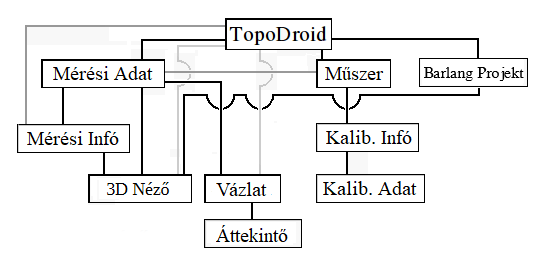
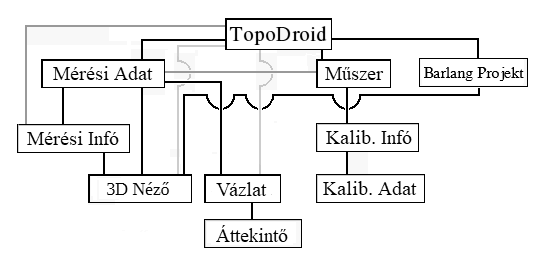
6 5 47

diff --git a/man/manual_hu.htm b/man/manual_hu.htm
@@ -1,6 +1,6 @@
 <html><body>
 <h3>Kiegészítés a magyar fordításhoz</h3>
-<!-- V20261027 6.5.44 -->
+<!-- V20261027 6.5.47 -->
 <i> holl.balazs.TopoDroid@gmail.com</i><br><p>
 
 Mottó:
@@ -23,7 +23,7 @@ A jelenlegi munkába a kezdésnél besegítettek: Markó Gábor; Vági Domonkos;
 Szakkifejezések fordítása - jelen esetben a barlangtérképezés szakzsargonja - sokszor problémás: ha van elfogadott magyar szakkifejezés az nem mindig elég rövid, hogy egy program felhasználói felületébe illeszkedjen. Ha nincs, vagy a meglévő nem megfelelő akkor az általam alkotott kifejezés nem biztos, hogy elfogadott lesz. Viszont nem szeretném átvenni az angol szakkifejezéseket, ha tudunk magyar jó szót alkotni (ebben kérem is a segítségeteket). Meg az ellenőrzésben.<br>
 Az egyértelműség kedvéért adok egy szószedetet, ami a szakszavak fordítását magyarázza.<br>
 <br>
-Holl Balázs, Papp Ferenc Bkcs. 2026.11.9<br> 
+Holl Balázs, Papp Ferenc Bkcs. 2026.11.12<br> 
 
 <hr>
 <b>Az eredeti kifejezések:</b><br>

diff --git a/man/manual13.htm b/man/manual13.htm
@@ -187,6 +187,8 @@ A poligon pont megjegyzései és jelei (rögzített, festett) megelőzik a polig
 A keresztmetszet segédpontok "-" (kötőjel) mérési ponttal exportálva, a többi "." (pont) mérési ponttal.<br>
 A megjegyzéseket a megjegyzés (#) alatt exportáljuk.<br><p>
 
+A mérés megjegyzéseket a '#' jellel, az adatok után adjuk hozzá.<br><p>
+
 A kiterjesztéshez a "extend &lt;flag&gt;" szintaxist minden poligon előtt használják, a zászló flag "left", "right",
  vagy "vert" lehet. A kiterjesztés nélküli sünökhöz a TopoDroid megjegyzést ír "# extend auto" mert ez nem
  érvényes <i>Therion</i> parancs.<br><p>
